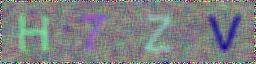
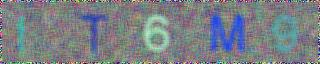
..

diff --git a/DIY.py b/DIY.py
@@ -1,6 +1,7 @@
 from PIL import Image, ImageDraw, ImageFont, ImageFilter
 
 import random
+import string
 
 class VCodeGenerator(object):
     __strHexMaxClrOfFont = 0xffffff
@@ -15,10 +16,10 @@ class VCodeGenerator(object):
     __dblFontSize = 0.75
     
     '''
-    ' Initialize VCodeGenerator
-    ' @param fontPath - path of font file e.g 'C:\Windows\Fonts\Arial.ttf'
-    ' @param numOfChar - number of characters to be generated e.g 4
-    ' @param height - height of verification code image e.g. 64
+    # Initialize VCodeGenerator
+    # @param fontPath - path of font file e.g 'C:\Windows\Fonts\Arial.ttf'
+    # @param numOfChar - number of characters to be generated e.g 4
+    # @param height - height of verification code image e.g. 64
     '''
     def __init__(self, fontPath, numOfChars, height):
         self.__strFontPath = fontPath
@@ -28,8 +29,8 @@ class VCodeGenerator(object):
         self.__imgVerificationCode = Image.new('RGB', (self.__intWidth, self.__intHeight), "#" + hex(self.__strHexMaxClrOfBg)[2:])
         
     '''
-    ' Set Font Size
-    ' @param fontSize - decimal/precentage due to image height e.g. 0.5
+    # Set Font Size
+    # @param fontSize - decimal/precentage due to image height e.g. 0.5
     '''
     def setFontSize(self, fontSize):
         if (fontSize > 1.0):
@@ -37,42 +38,40 @@ class VCodeGenerator(object):
         self.dblFontSize = fontSize
         
     '''
-    ' Get Font Size
+    # Get Font Size
     '''
     def getFontSize(self):
         return self.dblFontSize
 
     '''
-    ' Generate a random character include letters & digits
+    # Generate a random character include letters & digits
     '''
     def __generateRandChar(self):
-        finalChar = ''
-        firstRan = random.randint(65, 90);
-        if (firstRan % 2):
-            firstRan = random.randint(65, 90) % 10
-            finalChar = str(firstRan)
+        finalChar = random.randint(0, 1)
+        if (finalChar):
+            finalChar = str(random.randint(0, 9))
         else:
-            finalChar = chr(firstRan)
+            finalChar = random.choice(string.ascii_letters)
         return finalChar
 
     '''
-    ' Generate a random background color
+    # Generate a random background color
     '''
     def __generateRandBgColor(self):
         return (random.randint(self.__strHexMinClrOfBg, self.__strHexMaxClrOfBg))
 
     '''
-    ' Generate a random font color
+    # Generate a random font color
     '''
     def __generateRandFontColor(self):
         return (random.randint(self.__strHexMinClrOfFont, self.__strHexMaxClrOfFont))
 
     '''
-    ' Generate final verification code image
-    ' @return code - codes to verify
+    # Generate final verification code image
+    # @return code - codes to verify
     '''
     def generate(self):
-        code = []
+        code = ""
         marginBetweenChar = self.__intHeight * (1 - self.__dblFontSize)
         imgfntFont = ImageFont.truetype(self.__strFontPath, int(self.__intHeight * self.__dblFontSize))
         imgdrwDraw = ImageDraw.Draw(self.__imgVerificationCode)
@@ -82,7 +81,7 @@ class VCodeGenerator(object):
         for s in range(self.__intNumOfChars):
             strRanChar = self.__generateRandChar()
             imgdrwDraw.text((self.__intHeight * s + marginBetweenChar, marginBetweenChar / 2), strRanChar, font = imgfntFont, fill = self.__generateRandFontColor())
-            code.extend(strRanChar)
+            code += strRanChar
         self.__imgVerificationCode = self.__imgVerificationCode.filter(ImageFilter.BLUR)
         self.__imgVerificationCode.save('code.jpg', 'jpeg')
         return code
